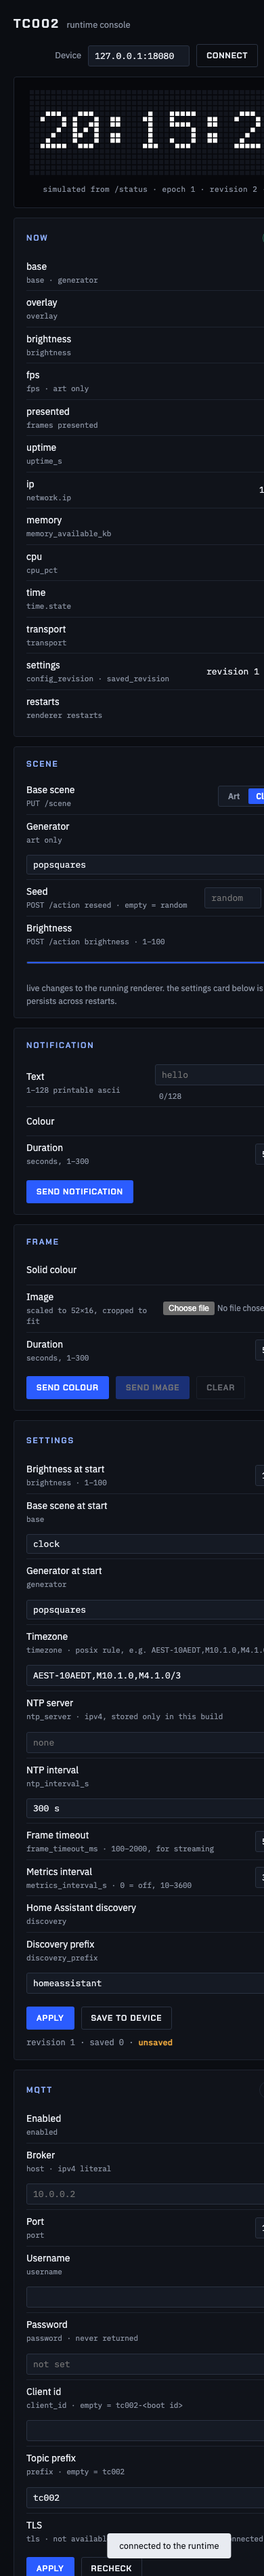
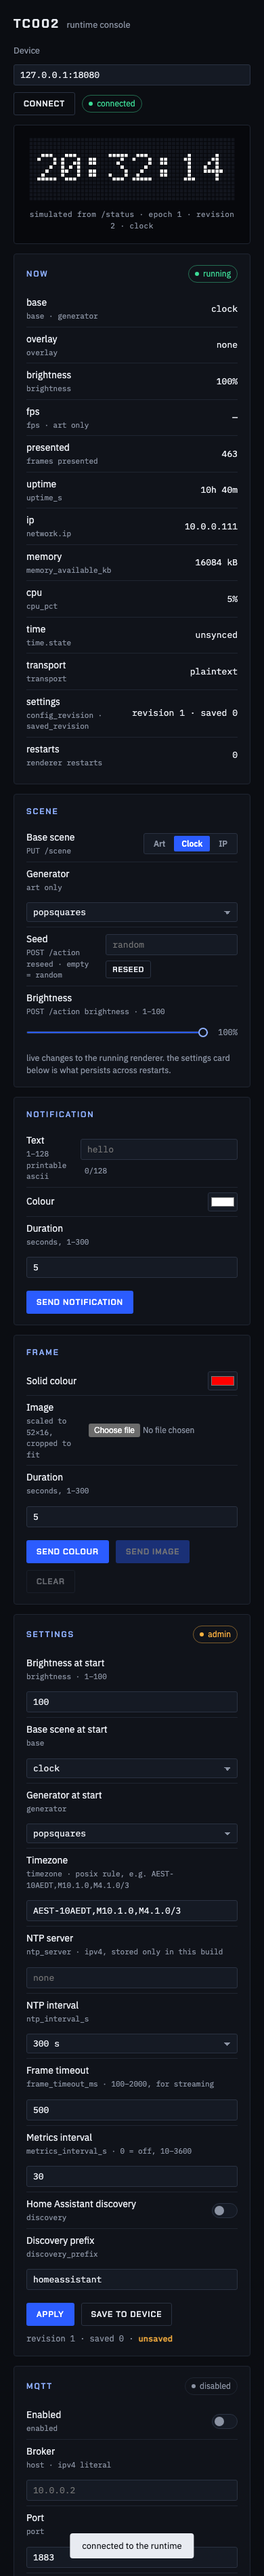
panel-v2: narrow layout — no horizontal overflow below 560 px
Claude-Session: https://claude.ai/code/session_0154EZ6adqhZyrJZmuD4WZcY

diff --git a/panel-v2/index.html b/panel-v2/index.html
@@ -153,6 +153,15 @@ input[type=file]{font:12px var(--body);color:var(--muted);max-width:220px}
 .inline{display:flex;align-items:center;gap:8px;flex-wrap:wrap}
 .rev{font-family:var(--data);font-size:12px;color:var(--muted)}
 .rev b{color:var(--warn);font-weight:600}
+
+/* v2 narrow-layout fixes: override the copied stock rules below 560/860px rather than editing them above */
+@container (max-width:860px){
+  .hero{grid-template-columns:minmax(0,1fr)}
+}
+@container (max-width:560px){
+  #host{width:100%}
+  input[type=number],input[type=file]{width:100%}
+}
 </style>
 </head>
 <body>
